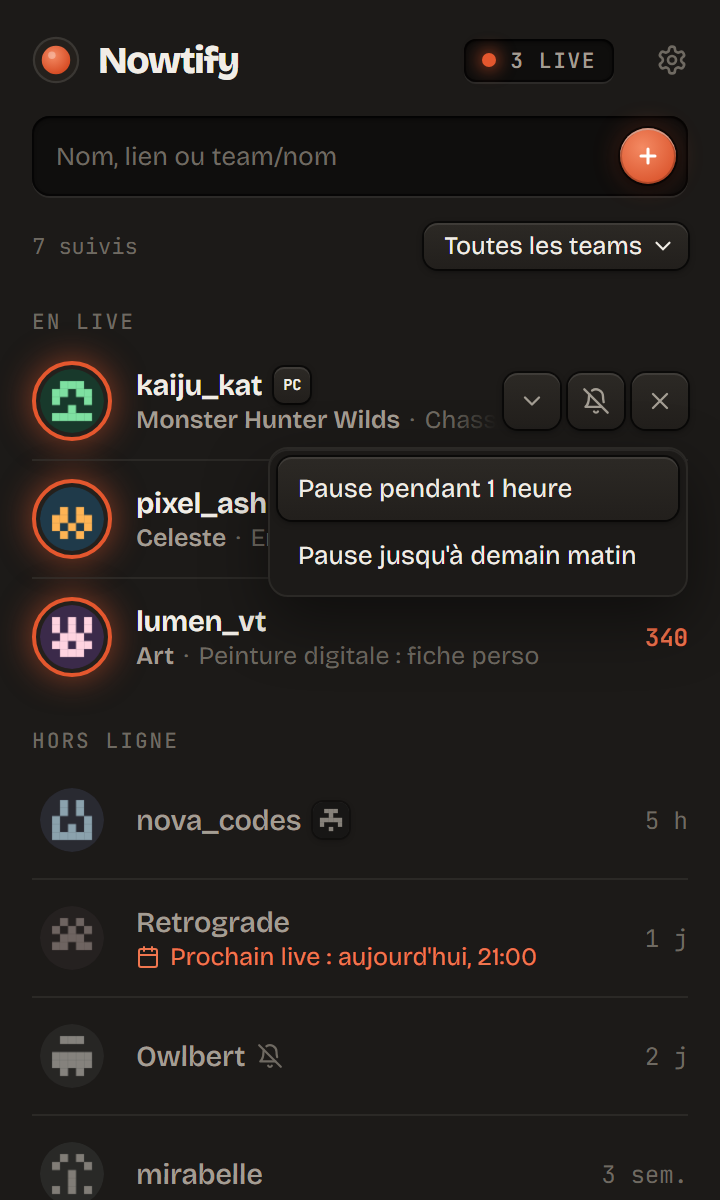
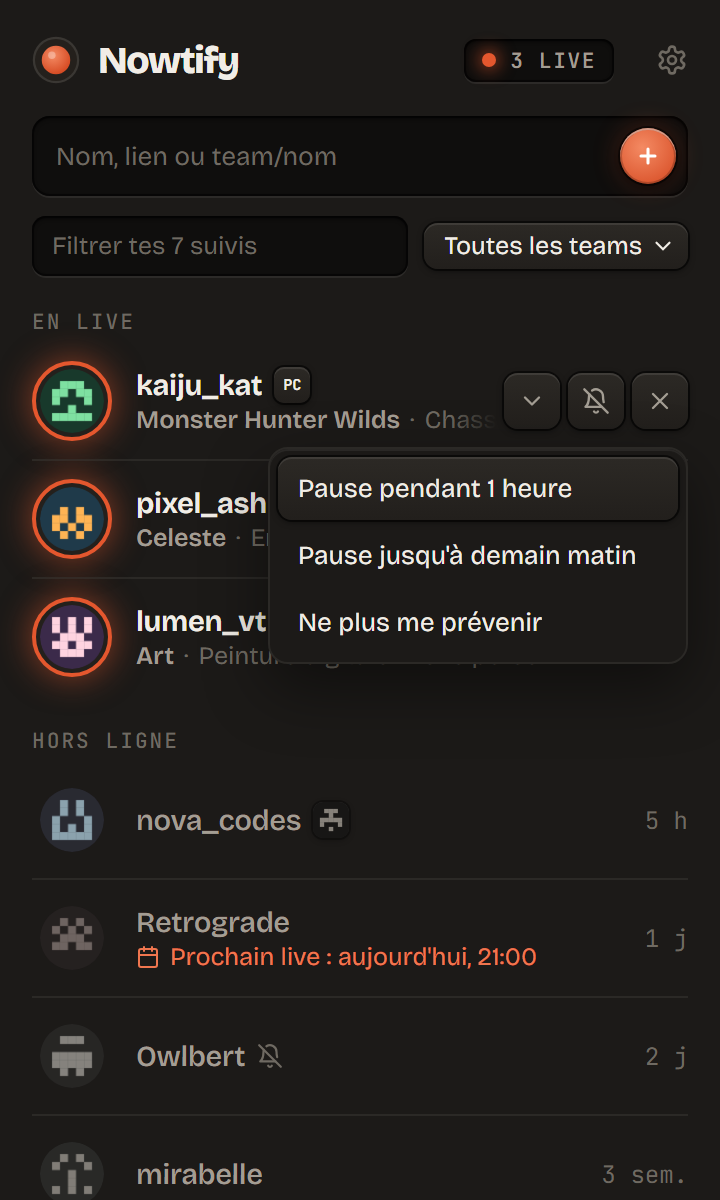
📝 docs: refresh every screenshot with the filter, search and pause menu

Changed region(s): [[0.3972, 0.4933, 0.7639, 0.555], [0.0611, 0.185, 0.3667, 0.2158], [0.8861, 0.5242, 0.9472, 0.555]]

diff --git a/README.md b/README.md
@@ -37,6 +37,10 @@ Tape `team/` suivi du nom d'une team Twitch (par exemple `team/solary`) et tous 
 
 Tu peux aussi coller un lien, `twitch.tv/zerator` ou `twitch.tv/team/solary`, ça marche pareil.
 
+<div align="center">
+<img src="docs/search.png" width="300" alt="La recherche de Nowtify avec le nombre de followers et la coche des partenaires" />
+</div>
+
 Tu suis déjà plein de monde sur Twitch ? Dans les réglages, « Voir mes follows » liste toutes tes chaînes suivies : coche celles que tu veux et ajoute-les d'un coup. Ensuite, quand tu cherches un streamer, ceux que tu suis passent en premier, avec leur nombre de followers et une coche pour les partenaires.
 
 ## 🔕 La pause par streamer
@@ -49,7 +53,7 @@ Tu suis déjà plein de monde sur Twitch ? Dans les réglages, « Voir mes follo
 
 Quelqu'un lance trois lives par jour et tu n'as pas envie d'être prévenu à chaque fois ? Passe la souris sur lui, clique sur la cloche barrée, et coupe ses notifs pendant une heure ou jusqu'à demain matin. Il reste dans ta liste, avec une petite cloche barrée à côté de son nom pour te rappeler qu'il est en pause. Si tu veux le garder sans plus jamais être prévenu, choisis « Ne plus me prévenir ». Pour une team entière, le bouton « Couper les notifs » est dans les réglages.
 
-La notification elle-même a deux boutons : « Regarder » ouvre le live, « Pause jusqu'à demain » coupe ce streamer jusqu'au lendemain matin.
+La notification elle-même a deux boutons : « Regarder » ouvre le live, « Pause jusqu'à demain » coupe ce streamer jusqu'au lendemain matin. Et si au moins trois de tes streamers lancent leur live en même temps, une seule notification les regroupe au lieu de t'en envoyer une par personne.
 
 ## 🌗 Clair ou sombre
 
